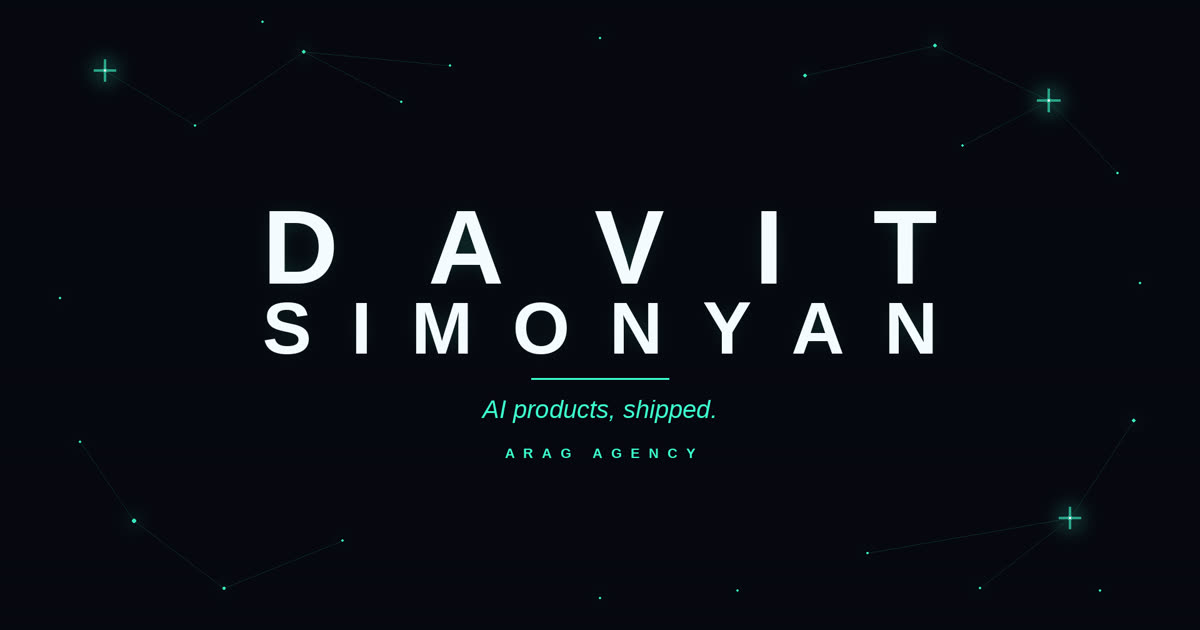
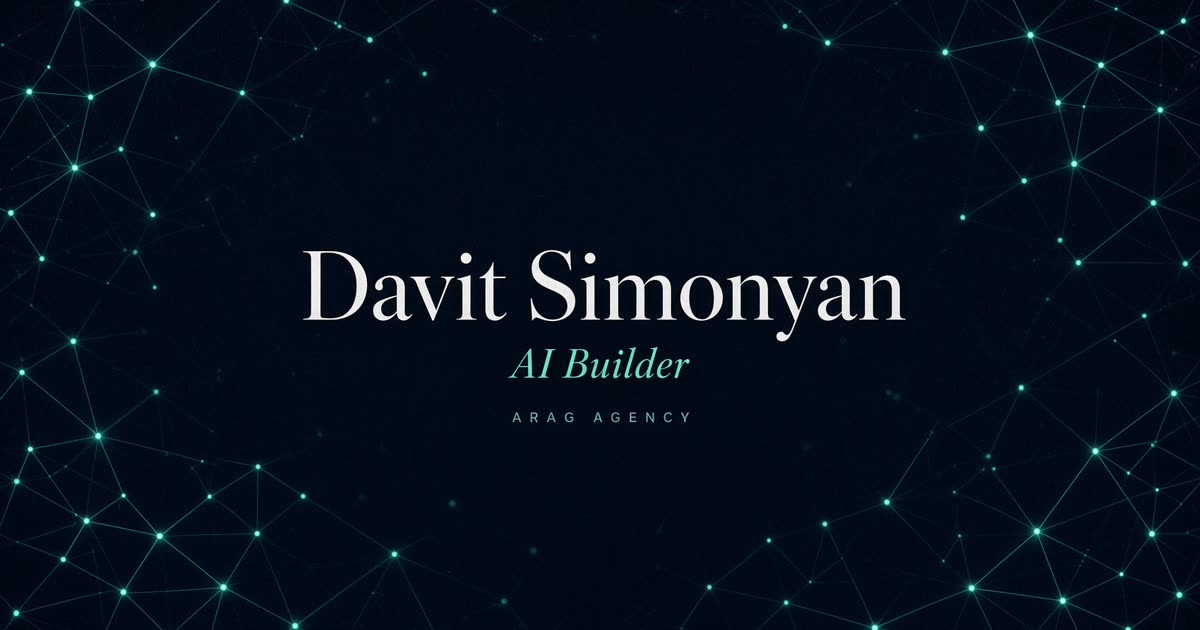
Fix social previews for LinkedIn and other unfurls.
Custom 1200×630 card, Open Graph description, canonical URL, and a D-mark favicon that matches the site.

diff --git a/src/routes/__root.tsx b/src/routes/__root.tsx
@@ -14,9 +14,13 @@ export const Route = createRootRoute({
       { title: APP_NAME },
       { name: "description", content: site.description },
       { name: "theme-color", content: "#06080f" },
+      { property: "og:image:alt", content: "Davit Simonyan — AI Builder, Arag Agency" },
     ],
     links: [
       { rel: "icon", type: "image/svg+xml", href: "/favicon.svg" },
+      { rel: "icon", type: "image/png", sizes: "32x32", href: "/favicon-32.png" },
+      { rel: "apple-touch-icon", href: "/apple-touch-icon.png" },
+      { rel: "canonical", href: "https://www.buildbydavit.space/" },
       { rel: "preconnect", href: "https://fonts.googleapis.com" },
       { rel: "preconnect", href: "https://fonts.gstatic.com" },
       {
@@ -25,7 +29,6 @@ export const Route = createRootRoute({
       },
       { rel: "stylesheet", href: appCss },
       { rel: "manifest", href: "/__grok/manifest.webmanifest" },
-      { rel: "apple-touch-icon", href: "/__grok/icon-180.png" },
     ],
   }),
   component: () => (

diff --git a/src/lib/content.ts b/src/lib/content.ts
@@ -9,7 +9,7 @@ export const site = {
   role: "AI Builder · Founder, Arag Agency",
   title: "Davit Simonyan — AI products, shipped",
   description:
-    "Davit Simonyan, founder of Arag Agency. Inbox Autopilot turns email into actions. Tyoma reads a website, then talks.",
+    "AI builder. Founder of Arag Agency. Inbox Autopilot turns email into actions. Tyoma reads a website, then talks.",
 } as const;
 
 export const nav = [
